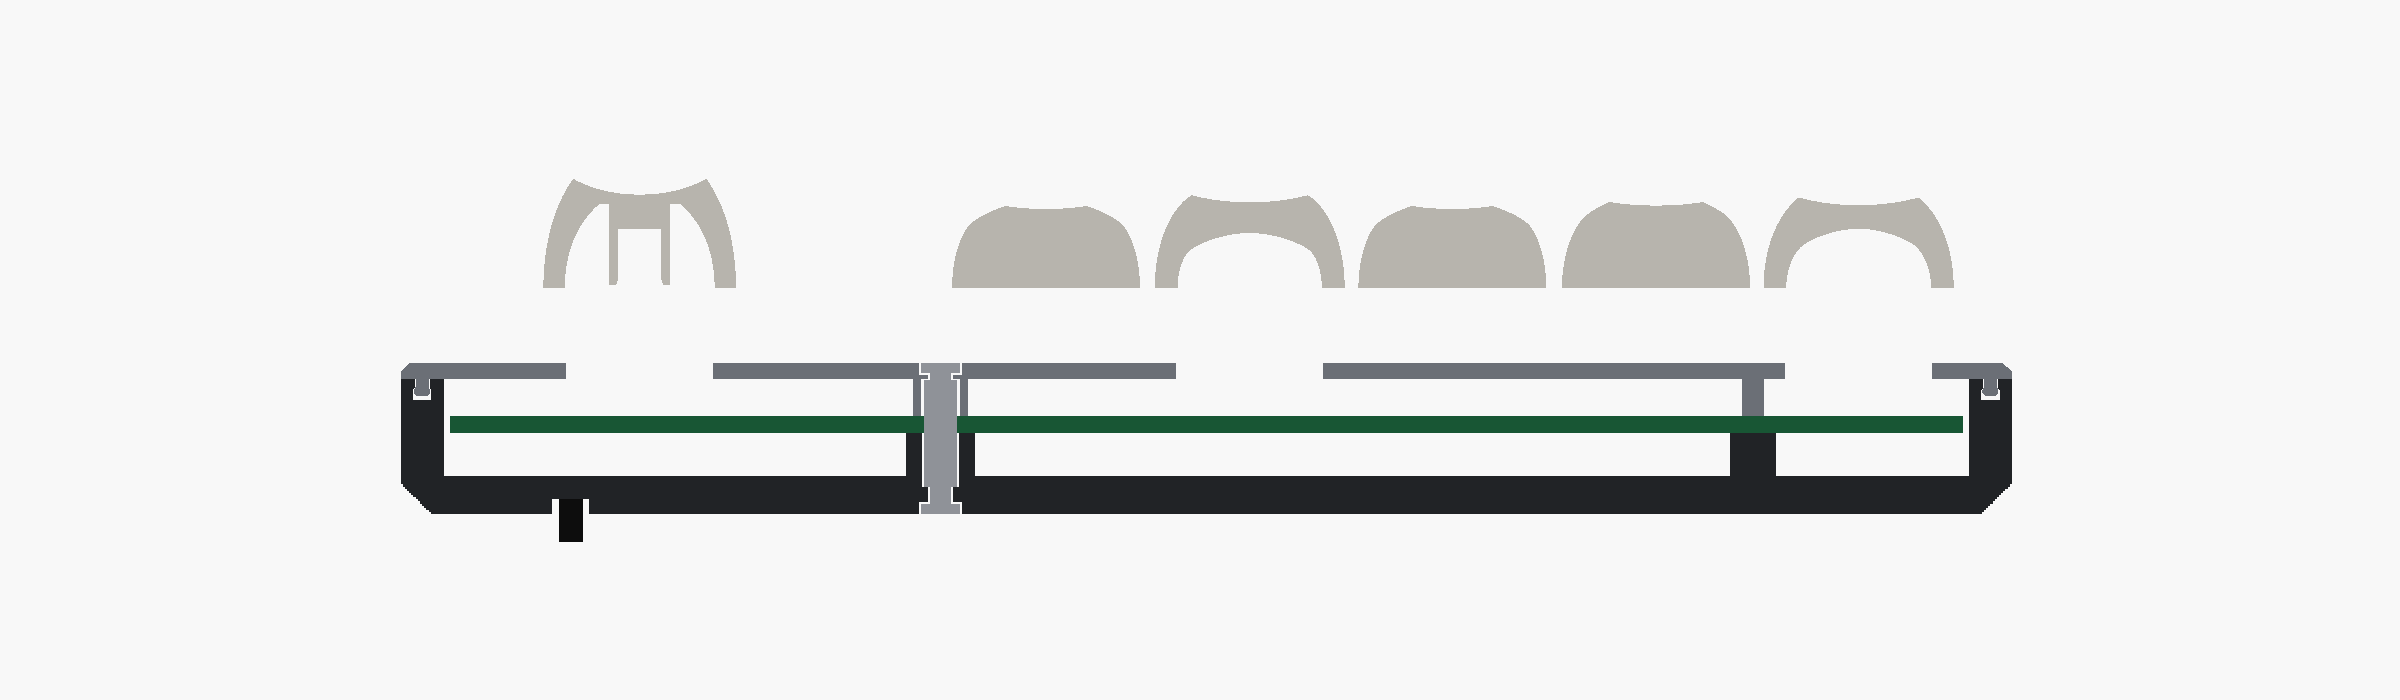
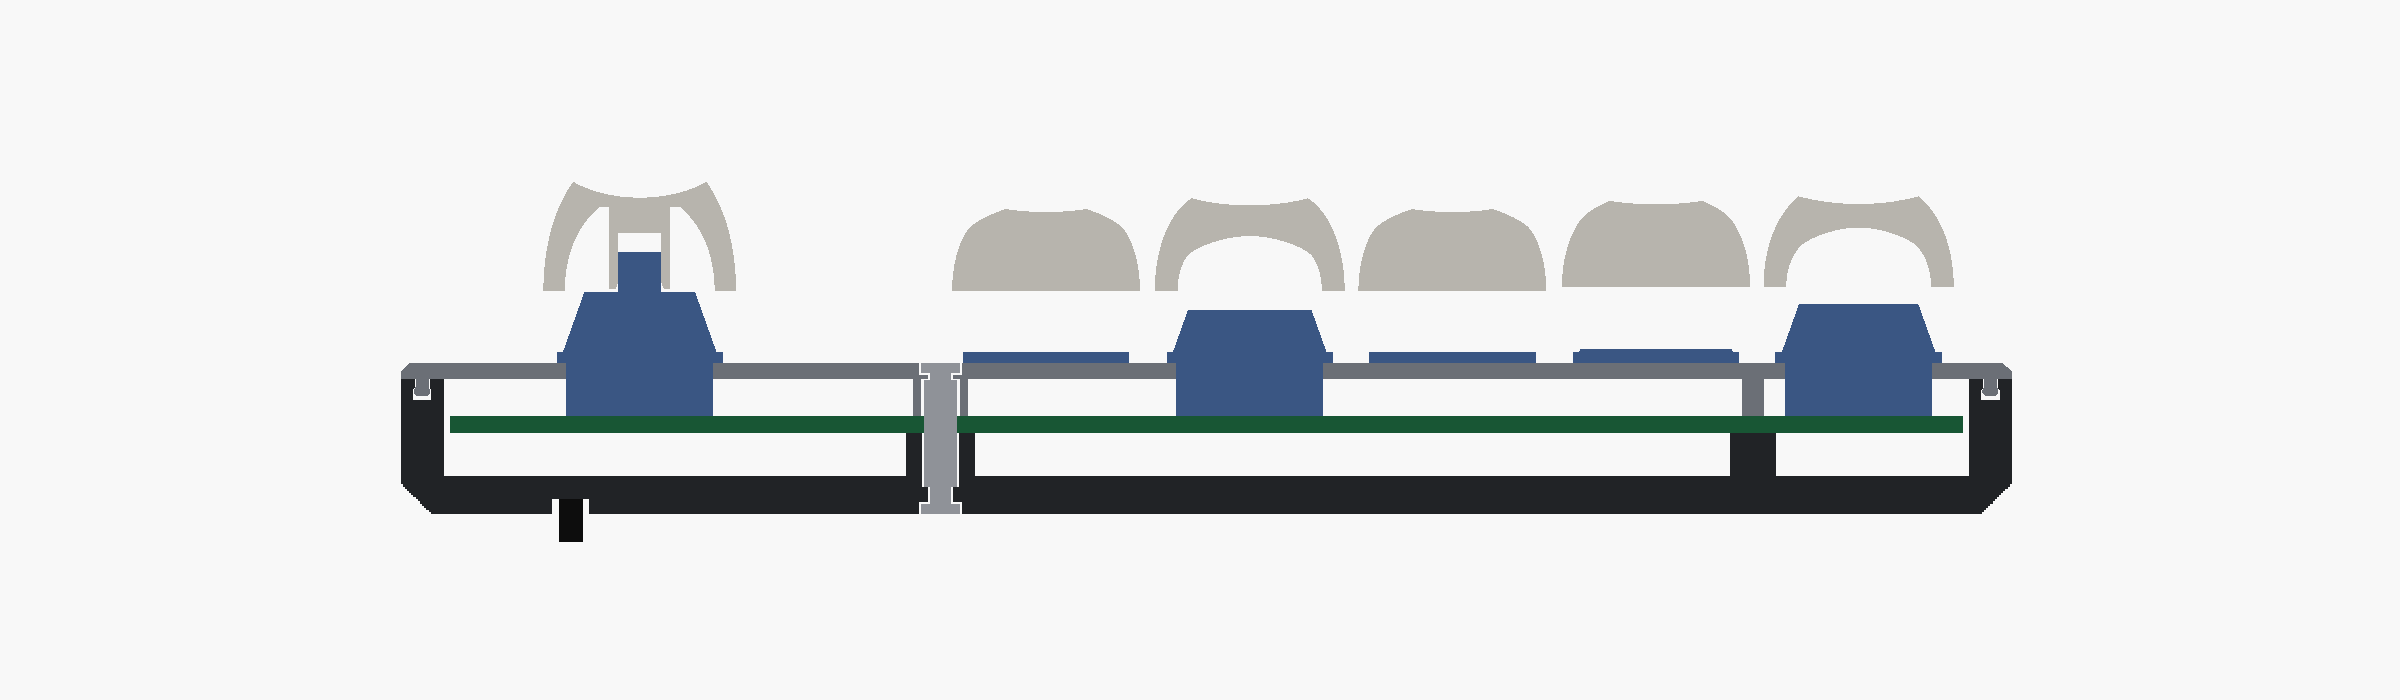
Carry case: compact variants with magnets, cable compartment for MX
MX frames lose the middle plate and gain a cable compartment over the
controller covers (81 mm instead of 84). New compact variant for both boards
(ADR 0016): the left half is turned over the long axis so the number rows
face the low rows, four 10 x 1.4 mm magnets per frame replace the rubber
bands and a printable roof closes the notches. MX 75.6 mm with two flat
cable compartments, Choc 59.2 mm without one.

Fix the swapped left/right carry frame exports, use the measured row heights
in the render scene and draw schematic switches in all case images. README
also documents the German layout from the previous commit.

diff --git a/README.md b/README.md
@@ -3,8 +3,8 @@
 Printable parts for the [Lily58](https://github.com/kata0510/Lily58) split keyboard, generated from
 parametric OpenSCAD sources and optimized for FDM printing:
 
-- **Keycaps** in two sculpted profiles, **DES** and **KAT**, each with a German layout (QWERTZ, no
-  special characters) or a US layout (QWERTY with punctuation), symbols for the modifier keys and
+- **Keycaps** in two sculpted profiles, **DES** and **KAT**, each with a German layout (QWERTZ letters
+  with US punctuation) or a US layout (QWERTY with punctuation), symbols for the modifier keys and
   multi-color legends. DES also exists for **Choc v1** switches at MX spacing.
 - **A case** for MX boards (PandaKB Lily58 RGB MX) and Choc v1 boards: a tray with a snap-in switch
   plate, a controller cover, rubber feet and pockets for folding tenting feet. Plus a travel sleeve
@@ -20,7 +20,7 @@ a draft and not released yet.
 | KAT keycaps | MX | German, US | released (v1.2), tolerance 0.025 |
 | Case (tray, plate, cover) | MX and Choc v1 | – | draft, plate fit test printed |
 | Travel sleeve | MX | – | draft |
-| Carry case | MX and Choc v1 | – | draft |
+| Carry case | MX (with cable compartment) and Choc v1 | – | draft |
 
 **Contents:** [Keycaps](#keycaps) · [Case](#case) · [Travel sleeve and carry case](#travel-sleeve-and-carry-case)
 · [Images and rendering](#images-and-rendering) · [Changes to the templates](#changes-to-the-templates)
@@ -127,10 +127,10 @@ German layout:
 | Row | Left | Right |
 |---|---|---|
 | Numbers | Esc 1 2 3 4 5 | 6 7 8 9 0 Del |
-| Top | Tab Q W E R T | Z U I O P □ |
-| Home | Ctrl A S D **F** G | H **J** K L □ □ |
-| Bottom | Shift Y X C V B □ | □ N M □ □ □ Shift |
-| Thumbs | Alt GUI Lower Space | Enter Raise Backspace GUI |
+| Top | Tab Q W E R T | Z U I O P - |
+| Home | Ctrl A S D **F** G | H **J** K L ; ' |
+| Bottom | Shift Y X C V B [ | ] N M , . / Shift |
+| Thumbs | Alt GUI Lower Enter | Space Raise Backspace GUI |
 
 US layout (follows the Lily58 default keymap):
 
@@ -140,9 +140,13 @@ US layout (follows the Lily58 default keymap):
 | Top | Tab Q W E R T | Y U I O P - |
 | Home | Ctrl A S D **F** G | H **J** K L ; ' |
 | Bottom | Shift Z X C V B [ | ] N M , . / Shift |
-| Thumbs | Alt GUI Lower Space | Enter Raise Backspace GUI |
+| Thumbs | Alt GUI Lower Enter | Space Raise Backspace GUI |
 
-□ = blank cap, **F**/**J** with homing bar or dot. Space and Enter are 1.5u. Ctrl, Alt and GUI use
+The German layout is the US layout with Y and Z swapped and Del instead of \`: US punctuation for programming, letters
+where a German keyboard has them. Umlauts and ß are not separate keys (long press on A/O/U/S in
+the firmware).
+
+**F**/**J** with homing bar or dot. Enter (left) and Space (right) are 1.5u; both layouts share the thumb keys. Ctrl, Alt and GUI use
 the Mac symbols ⌃ ⌥ ⌘. Every set also contains one blank spare cap per row, a full set of blank
 thumb caps and two blank homing caps.
 
@@ -292,10 +296,24 @@ the MX board (tallest keycap 24 mm above the plate, still to be measured).
 ![Carry case, MX halves, section through the number row](docs/img/case/mx_carry_section.png)
 
 The halves face each other keys inwards; the trays are the outside (ADR 0015). Between them: a frame
-on each half (resting on the plate rim), a 2 mm middle plate, filament pieces as dowels, two rubber
-bands round everything. Each board has its own pair of frames, sized to the measured keycap height above the plate plus 1 mm
-(MX 23.2 mm → `carry_frame_right/left.stl`, Choc 18 mm → `carry_frame_right/left_choc.stl`); the middle
-plate is shared. The case is about 84 mm high with the MX halves, 67 mm with the Choc halves.
+on each half (resting on the plate rim), filament pieces as dowels, two rubber bands round everything.
+Each board has its own pair of frames, sized to the measured keycap height above the plate
+(MX 23.2 mm → `carry_frame_right/left.stl`, Choc 18 mm → `carry_frame_right/left_choc.stl`).
+
+- **MX:** compact, no middle plate, the frames meet directly; about 81 mm high. The free space over the
+  controller covers is a cable compartment for a USB and a TRRS cable (31 × 54 mm, 38 mm deep). The
+  controller covers must be mounted, they close it.
+- **Choc:** a 2 mm middle plate (`carry_mid.stl`) between the frames; about 67 mm high.
+- **MX, maximum compactness (ADR 0016):** `carry2_frame_right/left.stl`, about 75.6 mm high. The left half
+  is turned over the long axis so the tall number rows face the low rows; four 10 x 1.4 mm magnets per frame instead of
+  rubber bands, a flat cable compartment over each controller cover.
+
+- **Choc, maximum compactness (ADR 0016):** `carry2_frame_right/left_choc.stl`, about 59 mm high, same
+  principle and magnets in the four corners, no cable compartment.
+
+![Compact carry case, exploded](docs/img/case/mx_carry2_exploded.png)
+
+![Compact carry case, Choc halves, exploded](docs/img/case/choc_carry2_exploded.png)
 
 <!-- part: docs/rendering.md -->
 ## Images and rendering
@@ -319,6 +337,7 @@ images use the sets of tolerance 0.025 (`KAT_TOL=0.10 render/keycaps.sh kat kat-
 | `docs/img/keycaps/side_profiles.png` | one column of each profile | `render/keycaps.sh` (scene: `render/side_profiles.scad`) |
 | `docs/img/case/<board>_assembled/_exploded/_section/_cover.png` | one half with blank caps | `render/case.sh` (scene: `render/case_scene.scad`) |
 | `docs/img/case/<board>_carry[_exploded/_section].png` | carry case | `render/case.sh` |
+| `docs/img/case/<board>_carry2[_exploded/_section].png` | compact carry case | `render/case.sh` |
 | `docs/img/case/bottom.png`, `travel.png` | tray bottom, travel sleeve | `render/case.sh` |
 | `docs/img/photos/*.jpg` | photos of printed caps | – (EXIF removed with `tools/jpegmeta.py`) |
 

diff --git a/docs/adr/0016-compact-carry-case-magnets.md b/docs/adr/0016-compact-carry-case-magnets.md
@@ -1,0 +1,72 @@
+# 0016 – Compact carry case: halves turned against each other, closed by magnets
+
+- **Status:** proposed (draft, not printed)
+- **Decided by:** owner (maximum compactness for both boards, offset halves, magnets, no compartment on Choc if too small), derived (geometry)
+
+## Context
+
+The carry case of ADR 0015 stacks the halves so that each key faces itself. The number row is the
+tallest (23.2 mm above the plate, measured), so it sets the height twice. A height map of all caps was
+searched for the best relative placement (1 mm steps, both ways of turning the upper half over). The
+table was made from the cap model, scaled so that the number row reaches the measured 23.2 mm; the row
+heights measured afterwards (R2 17.4, R3 15.7, R4 17.7, tallest thumb 20.0 mm) raise the 75.5 mm by 0.35 mm.
+
+| Upper half | Offset | Height | Footprint of the halves | Volume |
+|---|---|---|---|---|
+| turned over the short axis (ADR 0015) | none | 80.9 mm | 151.7 x 115.5 mm | 1418 cm³ |
+| turned over the long axis | none | 75.5 mm | 151.7 x 115.5 mm | 1322 cm³ |
+| turned over the long axis | y 19 mm | 70.0 mm | 151.7 x 134.5 mm | 1428 cm³ |
+| turned over the long axis | x 25, y 20 mm | 68.0 mm | 176.7 x 135.5 mm | 1628 cm³ |
+
+## Decision
+
+- **Stack:** the left half is turned over the long axis, so it lies point-reflected over the right half
+  and the number row of each half faces the low rows of the other. No offset: any offset costs more
+  footprint than it saves in height. Plate to plate 42 mm: real cap meshes with the measured heights
+  collide below 41.25 mm, so 0.75 mm of air remain. Total height 75.6 mm with
+  the rubber feet, envelope 155.5 x 119.3 mm (as in ADR 0015).
+- **Frames** (`part="frame2"`, `carry2_frame_right/left.stl`): two rings along the union of both outlines,
+  21 mm high, meeting face on the bed, no support. Each rests on its plate rim where its own outline is
+  the outside of the case; the skirt exists only there.
+- **Magnets:** four per frame, 10 x 1.4 mm (owner, measured), in bosses at the meeting face. The bosses
+  are wider than the ring, so the positions were searched: point-symmetric, compartments left free, caps
+  under each boss at most 14.7 mm high (boss starts at 18.4 mm). Pockets are open at the meeting face,
+  0.1 mm deeper than the magnet; glue the magnets in. All magnets of one frame with the same pole
+  outwards, the other frame the opposite.
+- **Dowels:** four 2.0 mm holes for 1.75 mm filament (5 mm deep per frame), glued in one frame, take the
+  shear. No rubber bands.
+- **Roof:** where the other half sticks out past this one the case would be open (a window at each
+  notch, narrow strips along the edges). Each frame closes this with a solid wedge that grows from the ring
+  at 45°, so it needs no support, and ends flush with the skirt, 0.3 mm round the tray.
+- **Cable compartments:** one over each controller cover, 31.5 x 54.4 x 16.3 mm. Each frame carries the
+  walls of its own compartment and a 1.2 mm deck closing the other one, printed on the bed.
+
+### Choc board
+
+Same stack, searched separately (cover 7.3 mm above the plate): turned over the long axis without an offset
+is again the smallest volume. Only the number row is measured (18 mm); the other rows come from the cap model
+scaled to it (R2 12.0, R3 9.9, R4 12.3, thumbs 12.2 to 14.6 mm).
+
+- Caps collide below 30.8 mm plate to plate; `c2_gap` 31.8 mm, 1.0 mm air. Total height 59.2 mm with the rubber
+  feet instead of 67.4 mm (ADR 0015), same envelope. Files `carry2_frame_right/left_choc.stl`, about 60 cm³ each.
+- **No cable compartment:** the high cover would leave only about 8 mm of depth, too little for plugs.
+- Magnets (same 10 x 1.4 mm, four per frame) sit in the four corners, caps under each boss at most 10.9 mm.
+- The frames are lower, so the 45° roof would not reach across the notch; it grows at 49° from vertical
+  (`c2_roof_k` 1.15) and closes completely.
+
+## Consequences
+
+- Only the tallest thumb height was measured. If the lower thumbs (19.1 and 17.5 mm in the model) were
+  also 20 mm, the caps would need 42.03 mm and just touch.
+- The holding force of the magnets is not tested.
+- The solid roof wedges make each frame about 78 cm³ (52 cm³ without them).
+- The compartments are shallower than the single one of ADR 0015 (16.3 mm instead of 38), so cables lie as
+  flat coils; there are two of them.
+- Changes to the tray outline, plate or caps change the frames and the magnet positions.
+
+## Images
+
+MX: [closed](../img/case/mx_carry2.png), [exploded](../img/case/mx_carry2_exploded.png),
+[section through the number row](../img/case/mx_carry2_section.png).
+Choc: [closed](../img/case/choc_carry2.png), [exploded](../img/case/choc_carry2_exploded.png),
+[section through the number row](../img/case/choc_carry2_section.png).

diff --git a/CLAUDE.md b/CLAUDE.md
@@ -44,10 +44,15 @@ Context for new sessions. Read this first, then the ADRs in `docs/adr/` for the 
    Switch cutout 13.8 mm, confirmed by the plate fit test.
 6. **Travel sleeve** (ADR 0013): box with two chambers, halves slide in keys up, tray unchanged.
    Waiting for the keycap height above the plate (`MEASURE 15`).
-7. **Carry case** (ADR 0015, both boards): halves keys facing each other, a frame on each, a middle
-   plate between, rubber bands round it. `cc_caps` per board (owner, measured): MX 23.2 mm,
-   Choc 18 mm, + 1 mm `cc_air`; own frames per board (`carry_frame_*_choc.stl`), shared middle plate.
-   Not printed.
+7. **Carry case** (ADR 0015, both boards): halves keys facing each other, a frame on each, rubber
+   bands round it. `cc_caps` per board (owner, measured): MX 23.2 mm, Choc 18 mm. Choc: 1 mm `cc_air`,
+   middle plate (`carry_mid.stl`), own frames (`carry_frame_*_choc.stl`). MX: compact, no middle plate,
+   0.5 mm `cc_air`, 81 mm high, cable compartment 31.1 x 54 x 38 mm over the controller covers.
+   Not printed; cable dimensions not measured yet.
+8. **Compact carry case** (ADR 0016, both boards; Choc: 59.2 mm, no compartment, row heights from the model
+   except R1, `carry2_frame_*_choc.stl`). MX: left half turned over the long axis, 75.6 mm high, `part="frame2"`,
+   four 10 x 1.4 mm magnets per frame instead of bands, two 16.3 mm deep compartments. Row heights measured
+   (R1 23.2, R2 17.4, R3 15.7, R4 17.7, thumbs 20 mm). Not printed.
 
 ## Commands
 
@@ -130,7 +135,8 @@ render/case.sh [mx|choc] [-- -D …]      # docs/img/case/ (exports parts to stl
   `stl/` (KAT: `KAT_TOL`, default 0.025).
 - Case: `render/case_scene.scad` (`VIEW=assembled|exploded|section|cover|bottom|carry|carry_exploded|
   carry_section|travel`, `switch_type=mx|choc`) with the blank caps of the DES / DES-Choc set. Cap
-  skirt above the plate is estimated (MX 7.0, Choc 4.6 mm).
+  height above the plate: MX from the owner's measurements (`row_dz`), Choc scaled to the measured 18 mm. Switches in the
+  scenes are schematic (no check uses them).
 - After a geometry change of the case or a keycap set, rerun the matching script and check the images.
 - Photos: `python3 tools/jpegmeta.py strip in.jpg out.jpg` (removes EXIF/GPS and motion-photo video),
   resize with `sips -Z 1600`, then `jpegmeta.py check`; put them in `docs/img/photos/`.

diff --git a/docs/adr/0015-carry-case.md b/docs/adr/0015-carry-case.md
@@ -32,6 +32,19 @@ themselves are the outer shell. The tray stays unchanged (ADR 0012).
   19 mm (Choc), plus the 3 mm skirt; case ~84 mm high with the MX halves (50 mm without), ~67 mm with
   the Choc halves (40 mm without). Frames ~58 cm³ (MX) / ~45 cm³ (Choc) each, plate ~32 cm³.
 - `part="carry"` renders the stack.
+- **MX: compact variant with a cable compartment** (owner asked for a more compact MX case and room for
+  a USB and a TRRS cable). For MX this replaces the frame height, middle plate and case height given
+  above; Choc keeps the frames on a middle plate.
+  - No middle plate; the frames meet directly and the dowels (10 mm pieces) join them. `cc_air` 0.5 mm per
+    side, so the opposing number rows are 1 mm apart. Height 81 mm instead of 84 (47.4 instead of 50.4
+    without the halves), frames 23.7 mm + skirt. Footprint unchanged (155.5 x 119.3 mm).
+  - 81 mm is close to the limit with these trays and caps: 2 x 16.8 mm for the halves + 2 x 23.2 mm for
+    the caps = 80 mm. Only the number row (KeyHeight 15 mm, thumbs up to 13, other rows up to 10.55)
+    reaches 23.2 mm, and in the mirrored stack it faces itself. ADR 0016 avoids that by turning one half.
+  - Cable compartment in the free space over the controller covers, no extra footprint: 31.1 x 54 mm,
+    38 mm deep over both frames, open towards the other frame, the covers are its floor and lid. Wall to
+    the keys 1.2 mm, 0.7 mm clear of the keycap edges (x 28.52, y 54.95); outer wall 2 mm, 1.2 mm left at
+    the band grooves. The first dowel moved to (-3.3, 44), out of the compartment walls.
 
 ## Measurements
 
@@ -40,7 +53,9 @@ themselves are the outer shell. The tray stays unchanged (ADR 0012).
 ## Consequences
 
 - Changes to the tray outline or the plate (ADR 0012) change the frames.
-- A taller controller cover needs a deeper `cc_cover`.
+- A taller controller cover needs a deeper `cc_cover` and makes the MX compartment shallower.
+- The MX frames need the controller covers mounted: they close the compartment.
+- Whether the cables fit depends on their length, diameter and plug size (not measured yet).
 
 ## Images
 

diff --git a/docs/adr/README.md b/docs/adr/README.md
@@ -21,3 +21,4 @@ development (usually after measuring or testing), with the owner's approval.
 | [0013](0013-travel-sleeve.md) | Travel case: a sleeve with two chambers | proposed |
 | [0014](0014-des-for-choc-v1.md) | DES caps for Choc v1 switches | accepted |
 | [0015](0015-carry-case.md) | Carry case: frames and a middle plate, held by rubber bands | proposed |
+| [0016](0016-compact-carry-case-magnets.md) | Compact carry case (MX and Choc): halves turned against each other, closed by magnets | proposed |
